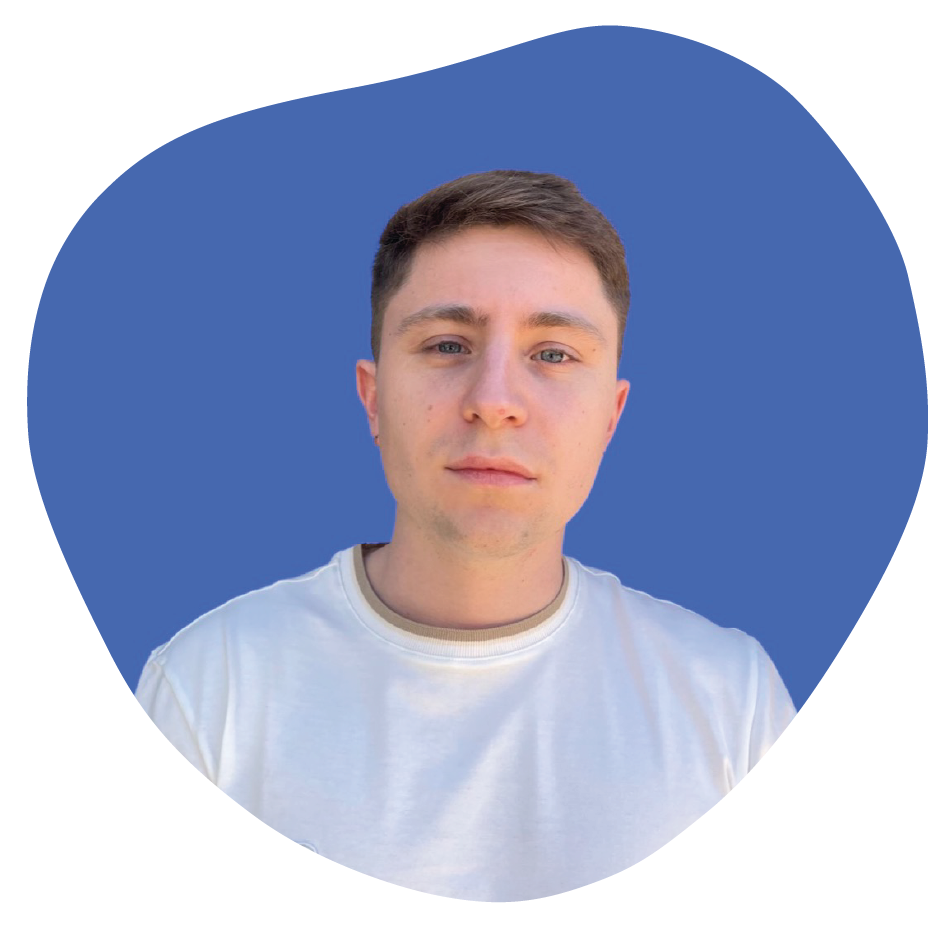
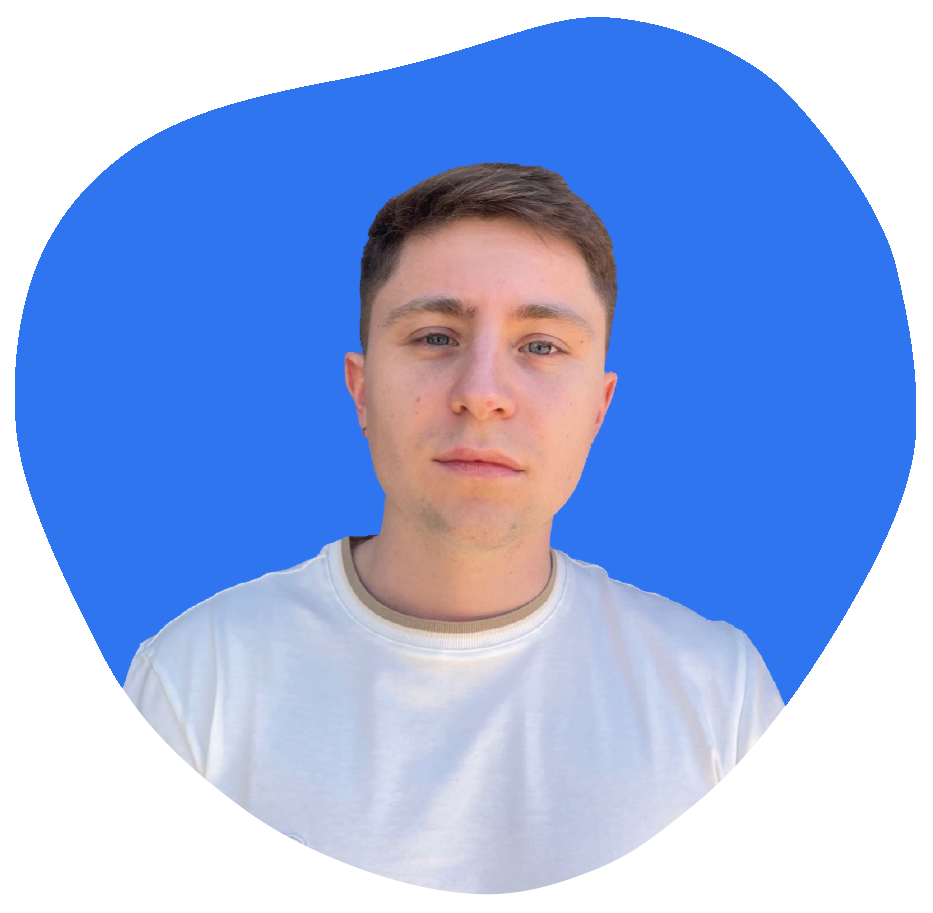
image updated

diff --git a/index.html b/index.html
@@ -40,7 +40,7 @@
                     <div id="shell" class="shell" style="margin-top: 20px;"></div>
                 </div>
                 <div class="container picture-container">
-                    <img class="picture" src="images/image.PNG">
+                    <img class="picture" src="images/image.png">
                 </div>
             </div>
             <div class="footer">

diff --git a/404.html b/404.html
@@ -13,6 +13,8 @@
       <h1>404</h1>
       <h2>Page Not Found</h2>
       <p>The specified file was not found on this website. Please check the URL for mistakes and try again.</p>
+      <button onclick="window.location.href='index.html';" style="margin-top: 15px;">Home</button>
     </div>
   </body>
+  <script src="js/colorScheme.js"></script>
 </html>

diff --git a/style.css b/style.css
@@ -717,6 +717,7 @@ input:focus, textarea:focus{
     color: #fff;
     transition: max-width 0.8s;
     -webkit-transition: max-width 0.8s;
+    transition-delay: 0.1s;
     overflow: hidden;
     display: flex;
     flex-direction: row;
